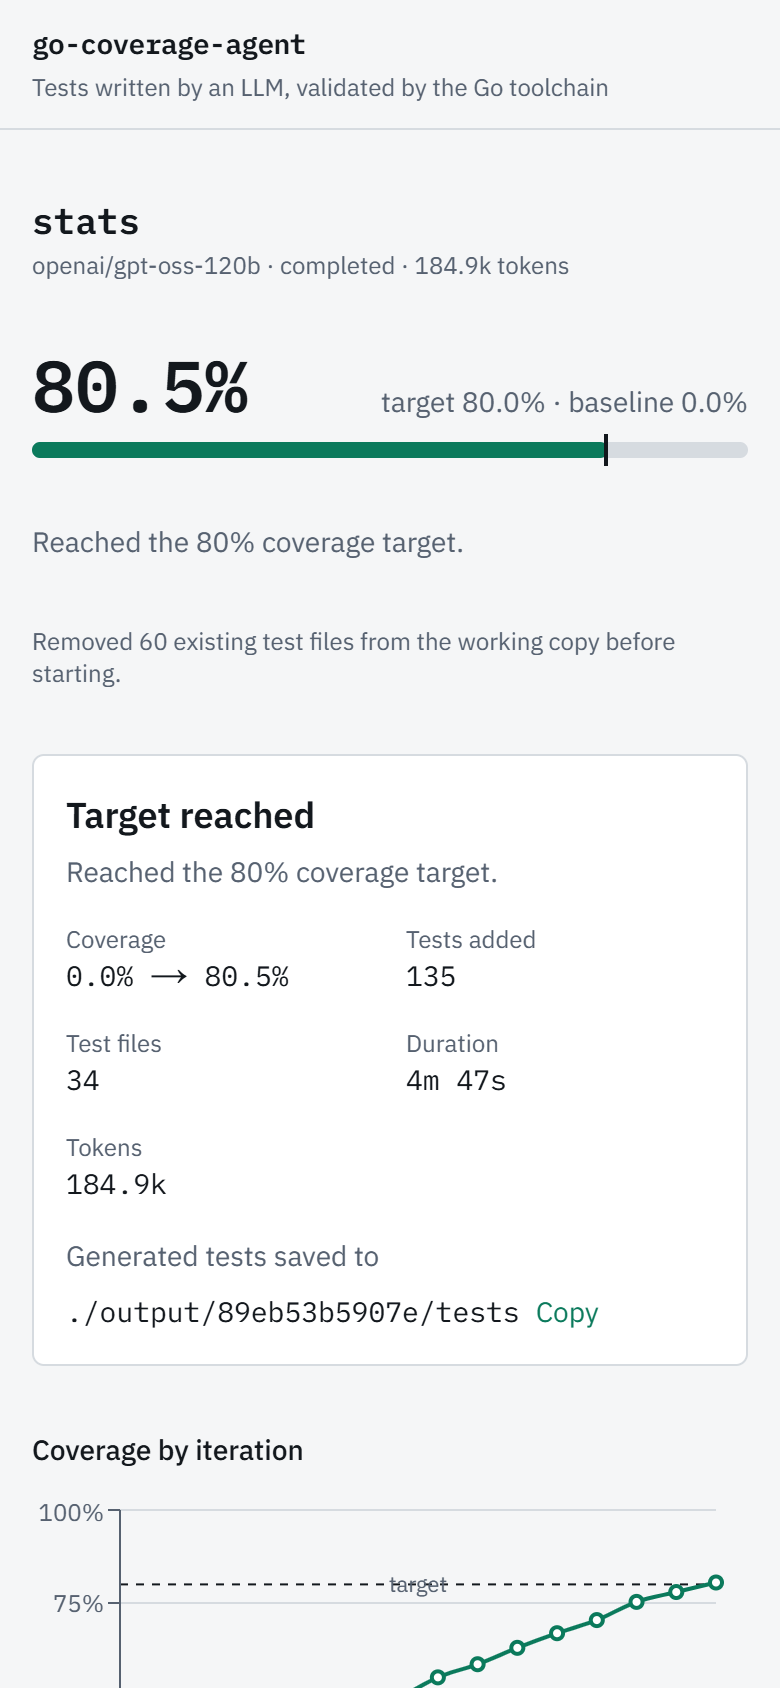
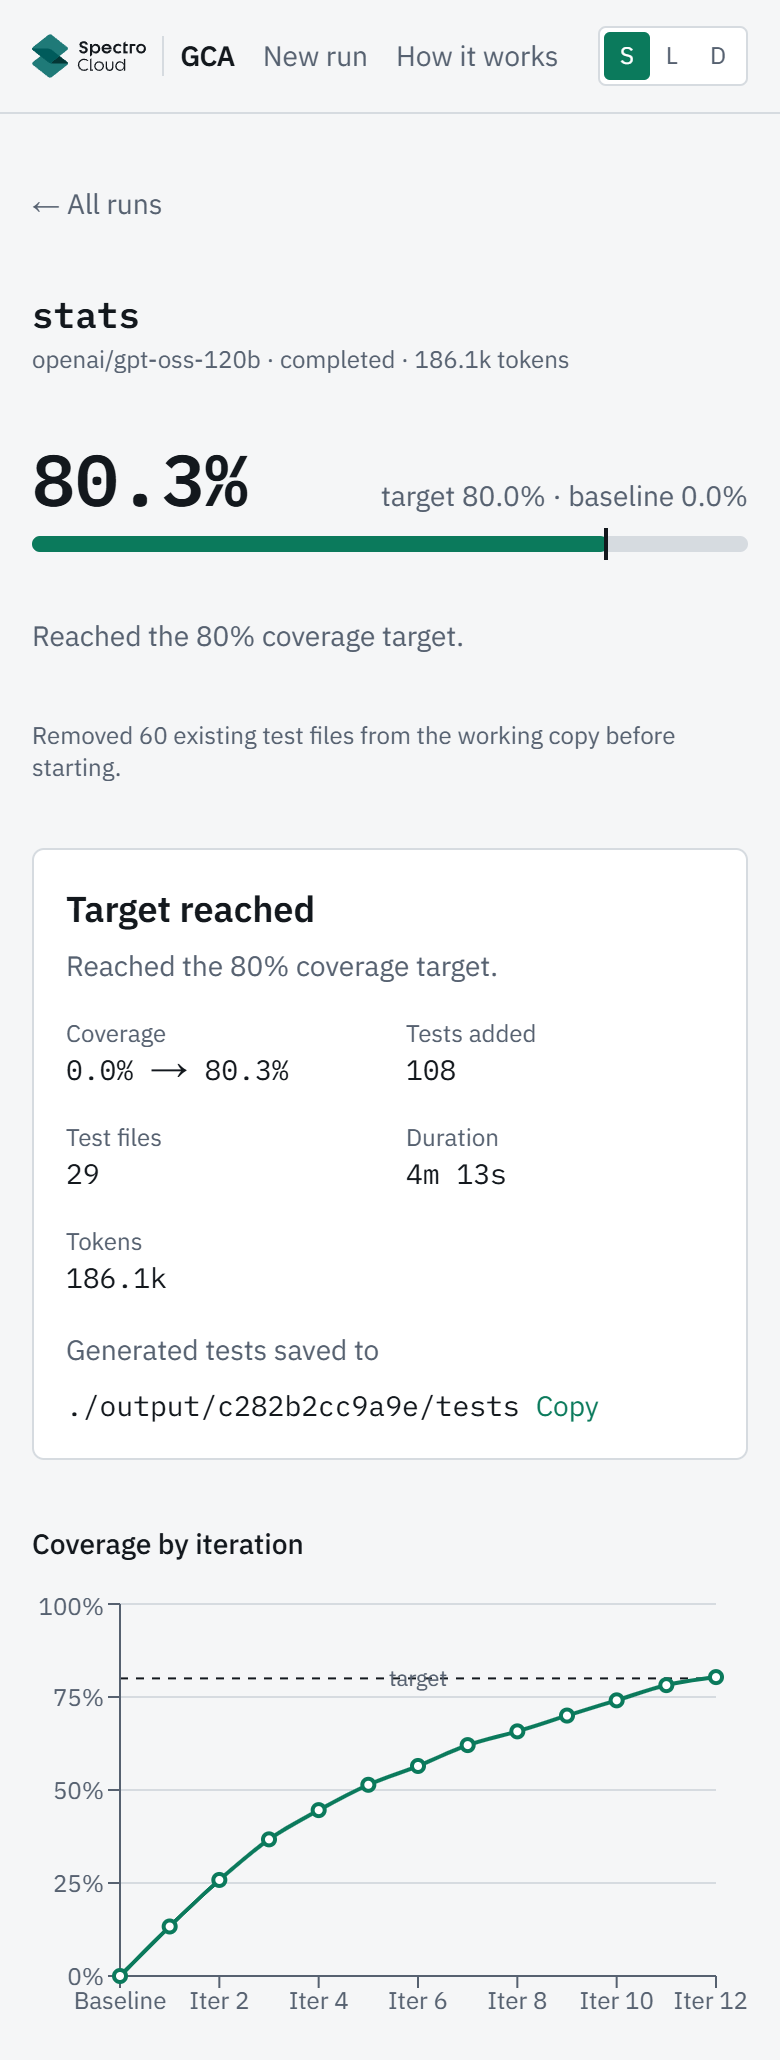
docs: retake all README screenshots against the current UI
Retake every gallery image from the current Next.js build with real
c282b2cc9a9e events, update captions to match, drop the seven old
full-page captures and the stale-screenshot note.

diff --git a/README.md b/README.md
@@ -6,7 +6,7 @@ An autonomous agent that raises unit-test coverage for Go repositories. Give it 
 percentage. It measures coverage, plans what to test, asks an LLM to write idiomatic Go tests, compiles and runs
 them, keeps only the tests that pass and add coverage, and repeats until it hits the target or gains flatten out.
 
-<a href="docs/screenshots/gallery-summary.png"><img src="docs/screenshots/gallery-summary.png" width="100%" alt="Results page for montanaflynn/stats showing 80.5% coverage against an 80% target and a Target reached summary card"></a>
+<a href="docs/screenshots/gallery-summary.png"><img src="docs/screenshots/gallery-summary.png" width="100%" alt="Results page for montanaflynn/stats showing 80.3% coverage against an 80% target and a Target reached summary card"></a>
 
 ## Quick start
 
@@ -136,47 +136,47 @@ I ran the system end to end, spotted these problems, and decided the fixes. Clau
 <tr>
 <td valign="top">
 <a href="docs/screenshots/gallery-setup.png"><img src="docs/screenshots/gallery-setup.png" width="100%" alt="Setup page with the Sample repos tab, one sample selected, and the Run history panel"></a>
-<br><b>Setup page: sample repos and Run history</b><br>The Sample repos tab with six cards (Ready or Download, licence, pinned tag), one selected, the one-line Selected summary, a closed Advanced options row, and the separate Run history panel on the right. The navbar link is New run.
+<br><b>Setup page: sample repos and Run history</b><br>The Sample repos tab with six cards (two Ready, four Download), <code>montanaflynn/stats</code> selected, the one-line Selected summary, a closed Advanced options row, and the Run history panel on the right: stats 0.0% to 80.3%, semver 1.4% to 80.1%, and a cancelled stats run at 8.6%.
 </td>
 <td valign="top">
 <a href="docs/screenshots/gallery-runs-dark.png"><img src="docs/screenshots/gallery-runs-dark.png" width="100%" alt="Setup page and Run history panel in the dark theme"></a>
-<br><b>Dark theme</b><br>The same page in the dark theme.
+<br><b>Dark theme</b><br>The same setup page and Run history panel in the dark theme.
 </td>
 </tr>
 <tr>
 <td valign="top">
-<a href="docs/screenshots/gallery-job-nav.png"><img src="docs/screenshots/gallery-job-nav.png" width="100%" alt="Job page top with the All runs link"></a>
-<br><b>Job page</b><br>The "← All runs" link above the run header, the 80.8% coverage meter with the 80% target marker, and the Target reached card.
+<a href="docs/screenshots/gallery-job-nav.png"><img src="docs/screenshots/gallery-job-nav.png" width="100%" alt="Job page header with the navbar, the All runs link, the 80.3 percent coverage meter and the reached-target message"></a>
+<br><b>Job page</b><br>The navbar with New run, the "← All runs" link, the run header (stats, completed, 186.1k tokens) and the 80.3% coverage meter with its 80% target marker.
 </td>
 <td valign="top">
 <a href="docs/screenshots/gallery-setup-mobile.png"><img src="docs/screenshots/gallery-setup-mobile.png" width="100%" alt="Setup page on a phone-width screen"></a>
-<br><b>Setup page on mobile</b><br>The setup page and navbar at phone width.
+<br><b>Setup page on mobile</b><br>The setup page at 390 px wide: the navbar collapses to a short title and S / L / D theme buttons, and the sample cards stack in one column.
 </td>
 </tr>
 <tr>
 <td valign="top">
 <a href="docs/screenshots/gallery-howitworks.png"><img src="docs/screenshots/gallery-howitworks.png" width="100%" alt="How it works page with the five-step loop"></a>
-<br><b>How it works page</b><br>The five-step loop, how the percentage is calculated, when a run stops, and the measured result for the newest run (0% to 80.75%, 12 iterations, 0 model errors).
+<br><b>How it works page</b><br>The five-step loop, how the percentage is calculated, when the run stops, and a measured result for <code>montanaflynn/stats</code> (0% to 80.75%, 12 iterations, about 4 min, 0 model errors).
 </td>
 <td valign="top">
 <a href="docs/screenshots/gallery-howitworks-mobile.png"><img src="docs/screenshots/gallery-howitworks-mobile.png" width="100%" alt="How it works page on a phone-width screen"></a>
-<br><b>How it works on mobile</b><br>The same page at phone width, with the steps stacked.
+<br><b>How it works on mobile</b><br>The same page at 390 px wide, with the steps stacked.
 </td>
 </tr>
 <tr>
 <td valign="top">
-<a href="docs/screenshots/gallery-summary.png"><img src="docs/screenshots/gallery-summary.png" width="100%" alt="Header, coverage meter and summary card for the 80.5 percent run"></a>
-<br><b>Run summary</b><br>Header, coverage meter with the 80% target marker, and the summary card: stop reason, coverage 0.0% to 80.5%, 135 tests added in 34 test files, 4m 47s, 184.9k tokens.
+<a href="docs/screenshots/gallery-summary.png"><img src="docs/screenshots/gallery-summary.png" width="100%" alt="Header, coverage meter and summary card for the 80.3 percent run"></a>
+<br><b>Run summary</b><br>Header, coverage meter with the 80% target marker, and the Target reached card: coverage 0.0% to 80.3%, 108 tests added in 29 test files, 4m 13s, 186.1k tokens.
 </td>
 <td valign="top">
 <a href="docs/screenshots/gallery-folders.png"><img src="docs/screenshots/gallery-folders.png" width="100%" alt="Your folders tab with a user module, the mounted folder path and the Add your own repository note with a HOST_REPOS_DIR line"></a>
-<br><b>Your folders</b><br>Modules found in the mounted folder, a Refresh button, and the steps for adding your own repository, with a copyable <code>HOST_REPOS_DIR</code> line.
+<br><b>Your folders</b><br>The module found in the mounted folder (<code>C:\Users\you\code</code>), a Refresh button, and the "Add your own repository" note with a copyable <code>HOST_REPOS_DIR</code> line.
 </td>
 </tr>
 <tr>
 <td valign="top">
 <a href="docs/screenshots/gallery-chart.png"><img src="docs/screenshots/gallery-chart.png" width="100%" alt="Line chart of coverage per iteration rising to the 80 percent target line"></a>
-<br><b>Coverage by iteration</b><br>Coverage after each of the 15 iterations, rising steadily from the 0% baseline and crossing the dashed 80% target line at the end.
+<br><b>Coverage by iteration</b><br>Coverage after each of the 12 iterations, rising steadily from the 0% baseline to 80.3% and crossing the dashed 80% target line at iteration 12.
 </td>
 <td valign="top">
 <a href="docs/screenshots/gallery-trace.png"><img src="docs/screenshots/gallery-trace.png" width="100%" alt="Expanded Activity item for norm.go showing three numbered attempts: a compile failure, an auto-fix that left 3 of 8 tests failing, and a prune that passed"></a>
@@ -185,29 +185,25 @@ I ran the system end to end, spotted these problems, and decided the fixes. Clau
 </tr>
 <tr>
 <td valign="top">
-<a href="docs/screenshots/gallery-testfile.png"><img src="docs/screenshots/gallery-testfile.png" width="100%" alt="Generated tests section with clip_test.go selected and highlighted Go code"></a>
-<br><b>Generated tests</b><br>Every accepted test file is browsable with syntax-highlighted Go, here <code>clip_test.go</code>, so the output can be reviewed before use.
+<a href="docs/screenshots/gallery-testfile.png"><img src="docs/screenshots/gallery-testfile.png" width="100%" alt="Generated tests section with correlation_test.go selected and highlighted Go code"></a>
+<br><b>Generated tests</b><br>Every accepted test file is browsable with syntax-highlighted Go, here <code>correlation_test.go</code> (one of 29 files), so the output can be reviewed before use.
 </td>
 <td valign="top">
-<a href="docs/screenshots/gallery-live.png"><img src="docs/screenshots/gallery-live.png" width="100%" alt="Cancelled run page showing 8.6 percent coverage and the cancelled summary"></a>
-<br><b>Cancelled run</b><br>A real run that was cancelled early: 8.6% coverage, 8 tests in 2 files, and the message that accepted tests were kept.
+<a href="docs/screenshots/gallery-live.png"><img src="docs/screenshots/gallery-live.png" width="100%" alt="Run in progress at 31.5 percent coverage with a Cancel button and an Activity list ending in a running item"></a>
+<br><b>Run in progress</b><br>A run part-way through iteration 3: 31.5% against the 80% target, a Cancel button, the status line "Fixing compile error in moving.go (attempt 1)", and the Activity list with <code>moving.go</code> still Running.
 </td>
 </tr>
 <tr>
 <td valign="top">
 <a href="docs/screenshots/gallery-dark.png"><img src="docs/screenshots/gallery-dark.png" width="100%" alt="Summary and coverage chart in dark theme"></a>
-<br><b>Dark theme</b><br>The same summary and chart under a dark color scheme; the layout and target marker are unchanged.
+<br><b>Dark theme</b><br>The job page header, meter, summary card and coverage chart in the dark theme.
 </td>
 <td valign="top">
 <a href="docs/screenshots/gallery-mobile.png"><img src="docs/screenshots/gallery-mobile.png" width="100%" alt="Results page on a 390 pixel wide phone screen"></a>
-<br><b>Mobile</b><br>The results page at 390 px wide: header, meter and summary reflow to fit a phone-width screen.
+<br><b>Mobile</b><br>The job page at 390 px wide: the summary card becomes two columns and the chart keeps every second iteration label.
 </td>
 </tr>
 </table>
-
-The summary, chart, timeline and cancelled-run shots were taken before the navbar redesign.
-
-Full-page captures: [setup (light)](docs/screenshots/setup-light.png), [setup (dark)](docs/screenshots/setup-dark.png), [setup (mobile)](docs/screenshots/setup-mobile.png), [results (light)](docs/screenshots/results-light.png), [results (dark)](docs/screenshots/results-dark.png), [results (mobile)](docs/screenshots/results-mobile.png), [live run](docs/screenshots/live-run.png).
 
 ## Configuration
 
